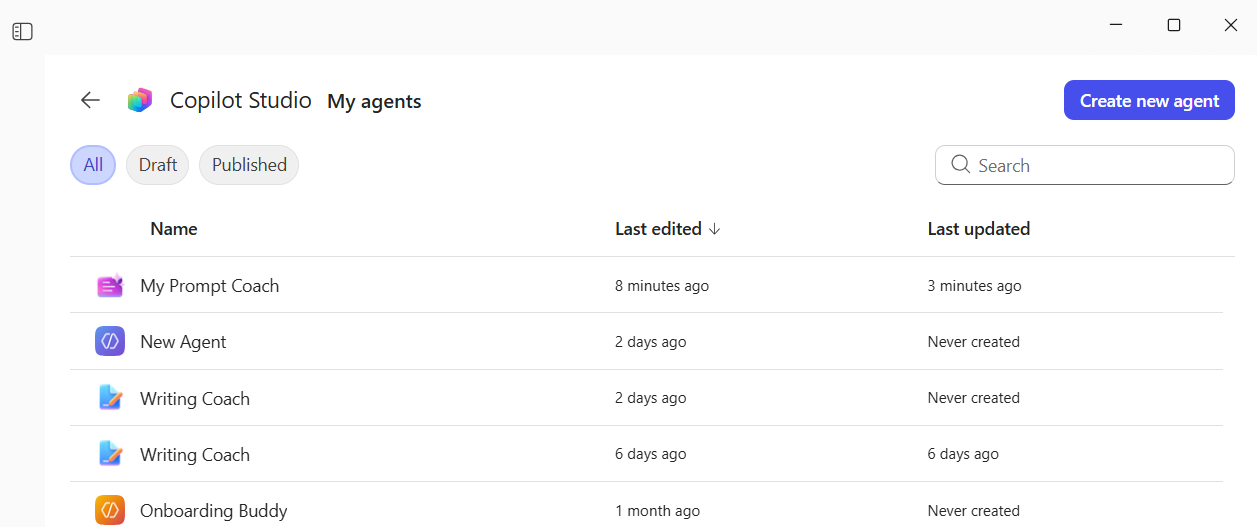
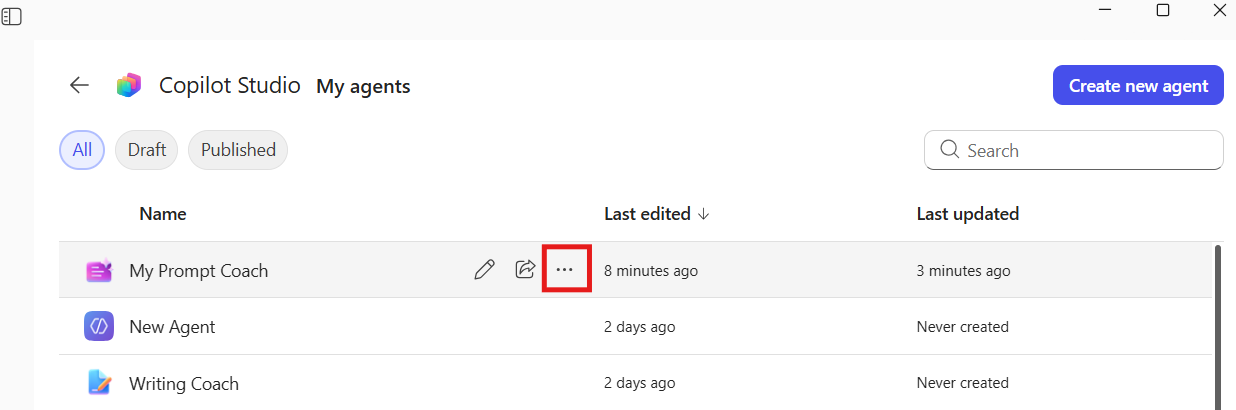
Update more screenshots

diff --git a/docs/agent-builder-share-manage-agents.md b/docs/agent-builder-share-manage-agents.md
@@ -73,7 +73,7 @@ To deploy an agent manually:
 
 1. In Microsoft 365 Copilot, open the left navigation pane and select **Create agent**.
 1. At the top of the central pane, choose **My agents**.
-:::image type="content" source="assets/images/download-zip-my-agents.png" alt-text="Screenshot of the *My agents* option in the *Create agent* pane":::
+:::image type="content" source="assets/images/my-agents.png" alt-text="Screenshot of the *My agents* option in the *Create agent* pane":::
 1. Highlight the agent you want to download and choose the ellipses.
 :::image type="content" source="assets/images/copilot-studio-lite-more-options.png" alt-text="Screenshot of the *More options* ellipses for the highlighted agent.":::
 1. Choose **Download .zip file**. The .zip file includes the agent manifest and app icon.
